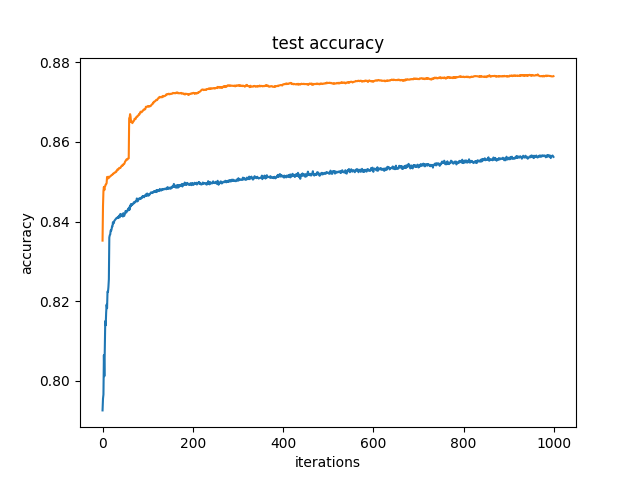
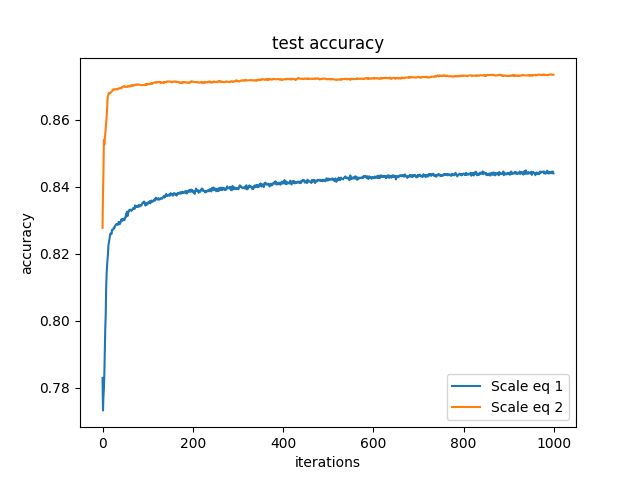
init

diff --git a/project_1/part_a/q4/main.py b/project_1/part_a/q4/main.py
@@ -52,13 +52,14 @@ decay = 0
 learning_rate = 0.01
 epochs = 1000
 batch_size = 32
+no_hidden = 25
 
 # theano expressions
 X = T.matrix() #features
 Y = T.matrix() #output
 
-w1, b1 = create_weights(36, 10), create_bias(10) #weights and biases from input to hidden layer
-w2, b2 = create_weights(10, 6, logistic=False), create_bias(6) #weights and biases from hidden to output layer
+w1, b1 = create_weights(36, no_hidden), create_bias(no_hidden) #weights and biases from input to hidden layer
+w2, b2 = create_weights(no_hidden, 6, logistic=False), create_bias(6) #weights and biases from hidden to output layer
 
 h1 = T.nnet.sigmoid(T.dot(X, w1) + b1)
 py = T.nnet.softmax(T.dot(h1, w2) + b2)
@@ -117,7 +118,7 @@ result["train_cost"] = []
 
 
 
-decay_list = [0, 1e-3,1e-6,1e-9,1e-12]
+decay_list = [0, 1e-3,1e-6,1e-9,1e-12] # 1e-9 is the best
 # decay_list = [1e-3, 1e-6]
 for decay in decay_list:
     test_accuracy = []
@@ -135,10 +136,10 @@ for decay in decay_list:
         # print(test_accuracy)
 
 
-    w1.set_value(init_weights(36, 10))
-    b1.set_value(init_bias(10)) #weights and biases from input to hidden layer
+    w1.set_value(init_weights(36, no_hidden))
+    b1.set_value(init_bias(no_hidden)) #weights and biases from input to hidden layer
 
-    w2.set_value(init_weights(10, 6, logistic=False))
+    w2.set_value(init_weights(no_hidden, 6, logistic=False))
     b2.set_value(init_bias(6)) #weights and biases from hidden to output layer
 
     result["test_accuracy"].append(test_accuracy)

diff --git a/project_1/part_a/q1/main.py b/project_1/part_a/q1/main.py
@@ -147,8 +147,9 @@ list2 = np.mean(list2, axis=0)
 
 print("Plotting results...")
 plt.figure()
-plt.plot(range(epochs), list1)
-plt.plot(range(epochs), list2)
+plt.plot(range(epochs), list1, label="Scale eq 1")
+plt.plot(range(epochs), list2, label="Scale eq 2")
+plt.legend(loc="bottom right")
 plt.xlabel('iterations')
 plt.ylabel('accuracy')
 plt.title('test accuracy')

diff --git a/project_1/part_a/q2/main.py b/project_1/part_a/q2/main.py
@@ -133,6 +133,7 @@ for batch_size in batch_size_list:
             t0 = time.time()
             cost += train(trainX[start:end], trainY[start:end])
             result["times"].append(1000*(time.time()-t0))
+            
         train_cost.append(cost/(n // batch_size))
 
         test_accuracy.append(np.mean(np.argmax(testY, axis=1) == predict(testX)))

diff --git a/project_1/part_b/q3/main.py b/project_1/part_b/q3/main.py
@@ -112,7 +112,7 @@ result["time_update"] = []
 # learning_rates = [0.001, 0.005, 0.0001, 0.0005, 0.00001]
 no_hidden1_list = [20, 30, 40, 50, 60]
 
-learning_rate = 0.001
+learning_rate = 0.005
 alpha.set_value(learning_rate)
 print(alpha.get_value())
 

diff --git a/project_1/part_b/q2/main.py b/project_1/part_b/q2/main.py
@@ -9,7 +9,7 @@ from mpl_toolkits.mplot3d import Axes3D
 
 np.random.seed(10)
 
-epochs = 10000
+epochs = 1000
 batch_size = 32
 no_hidden1 = 30 #num of neurons in hidden layer 1
 learning_rate = 0.0001
